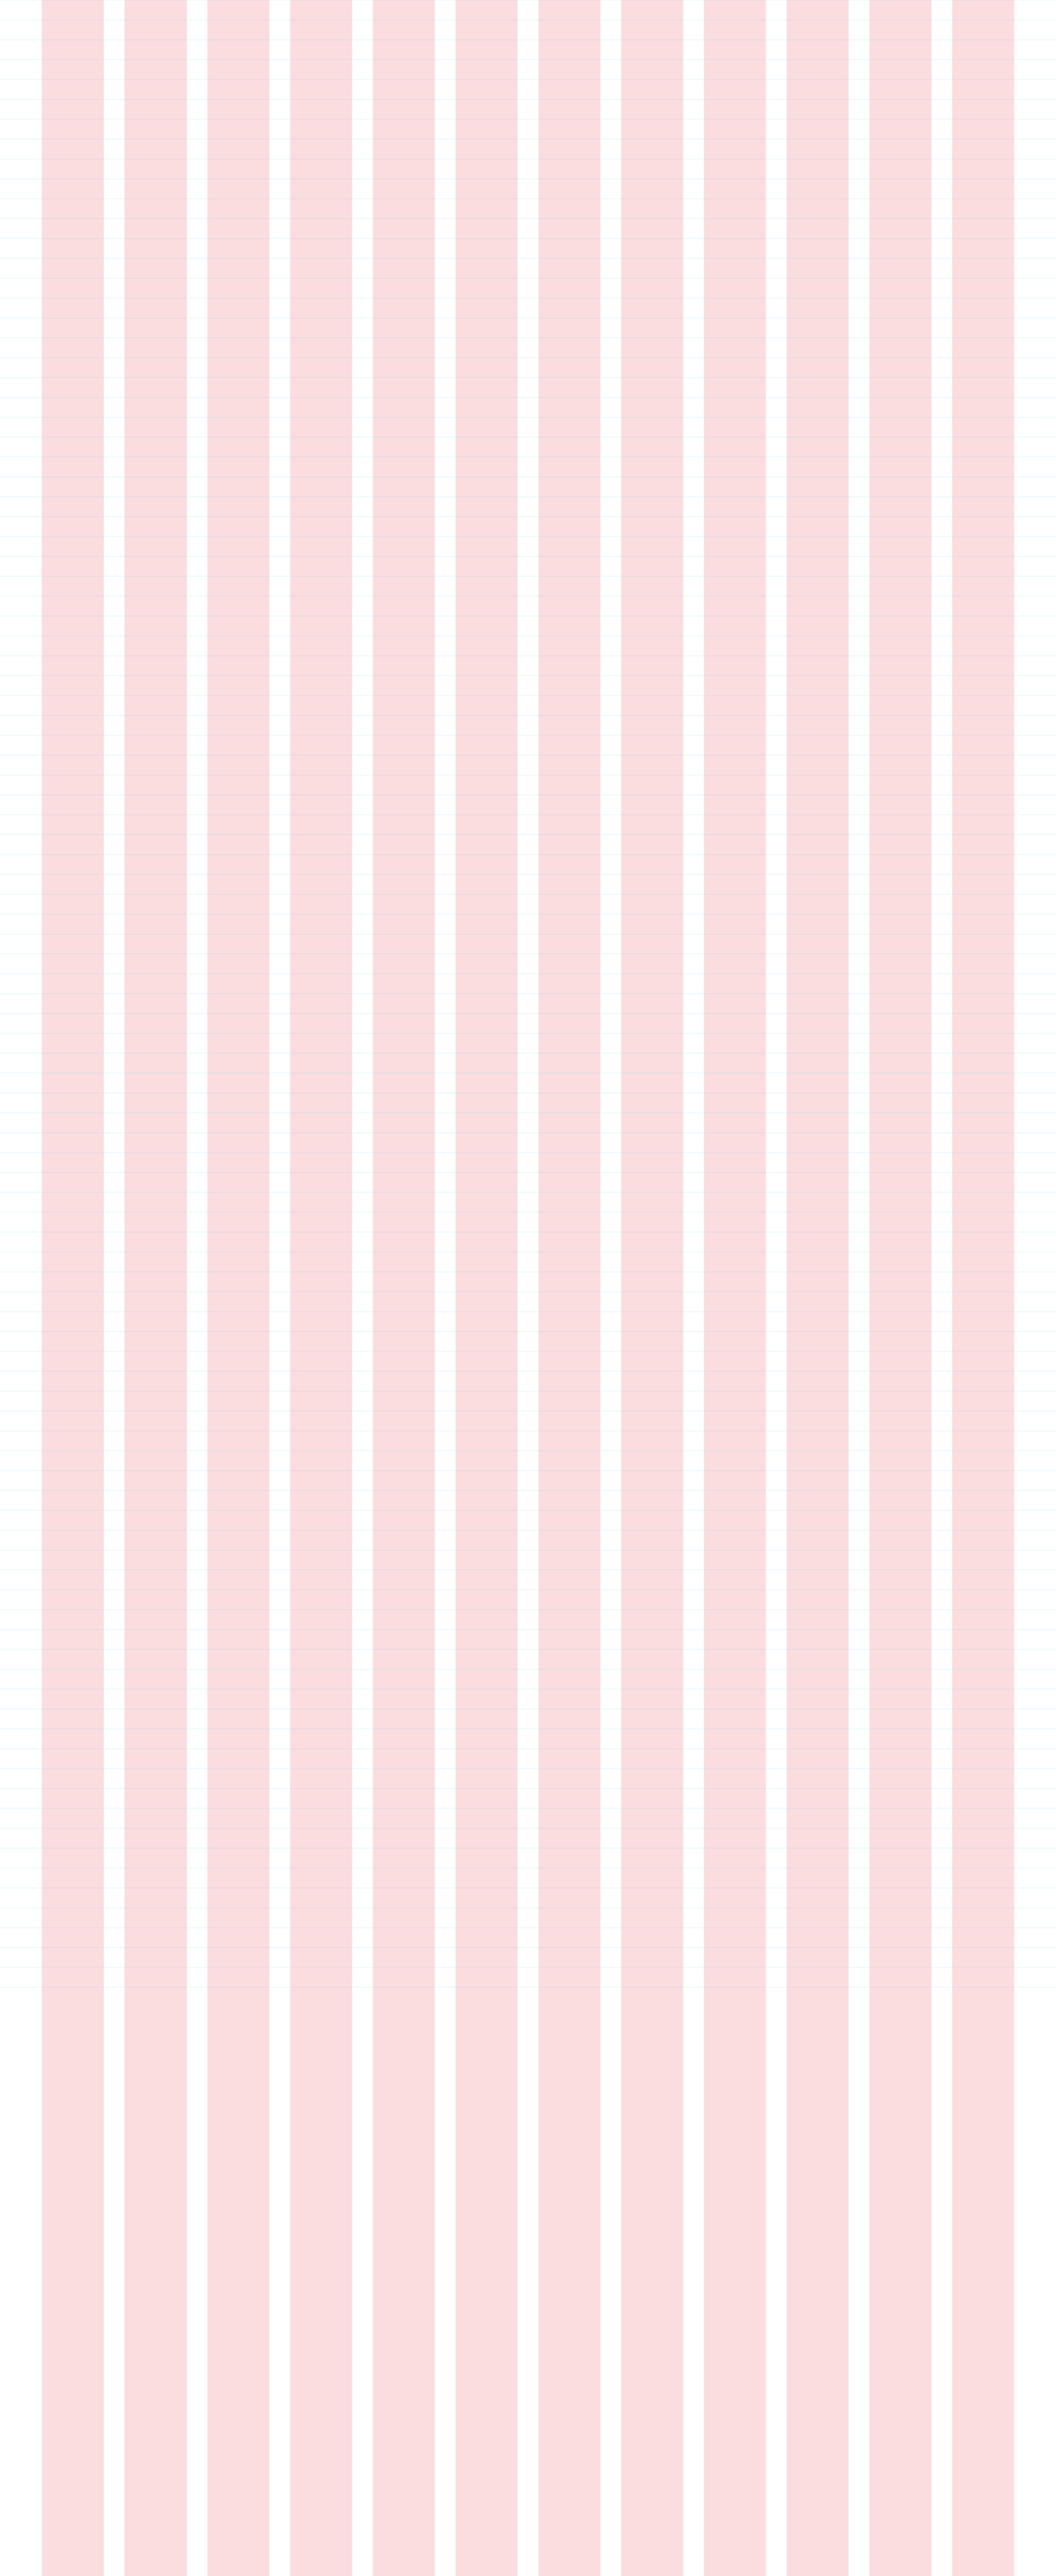
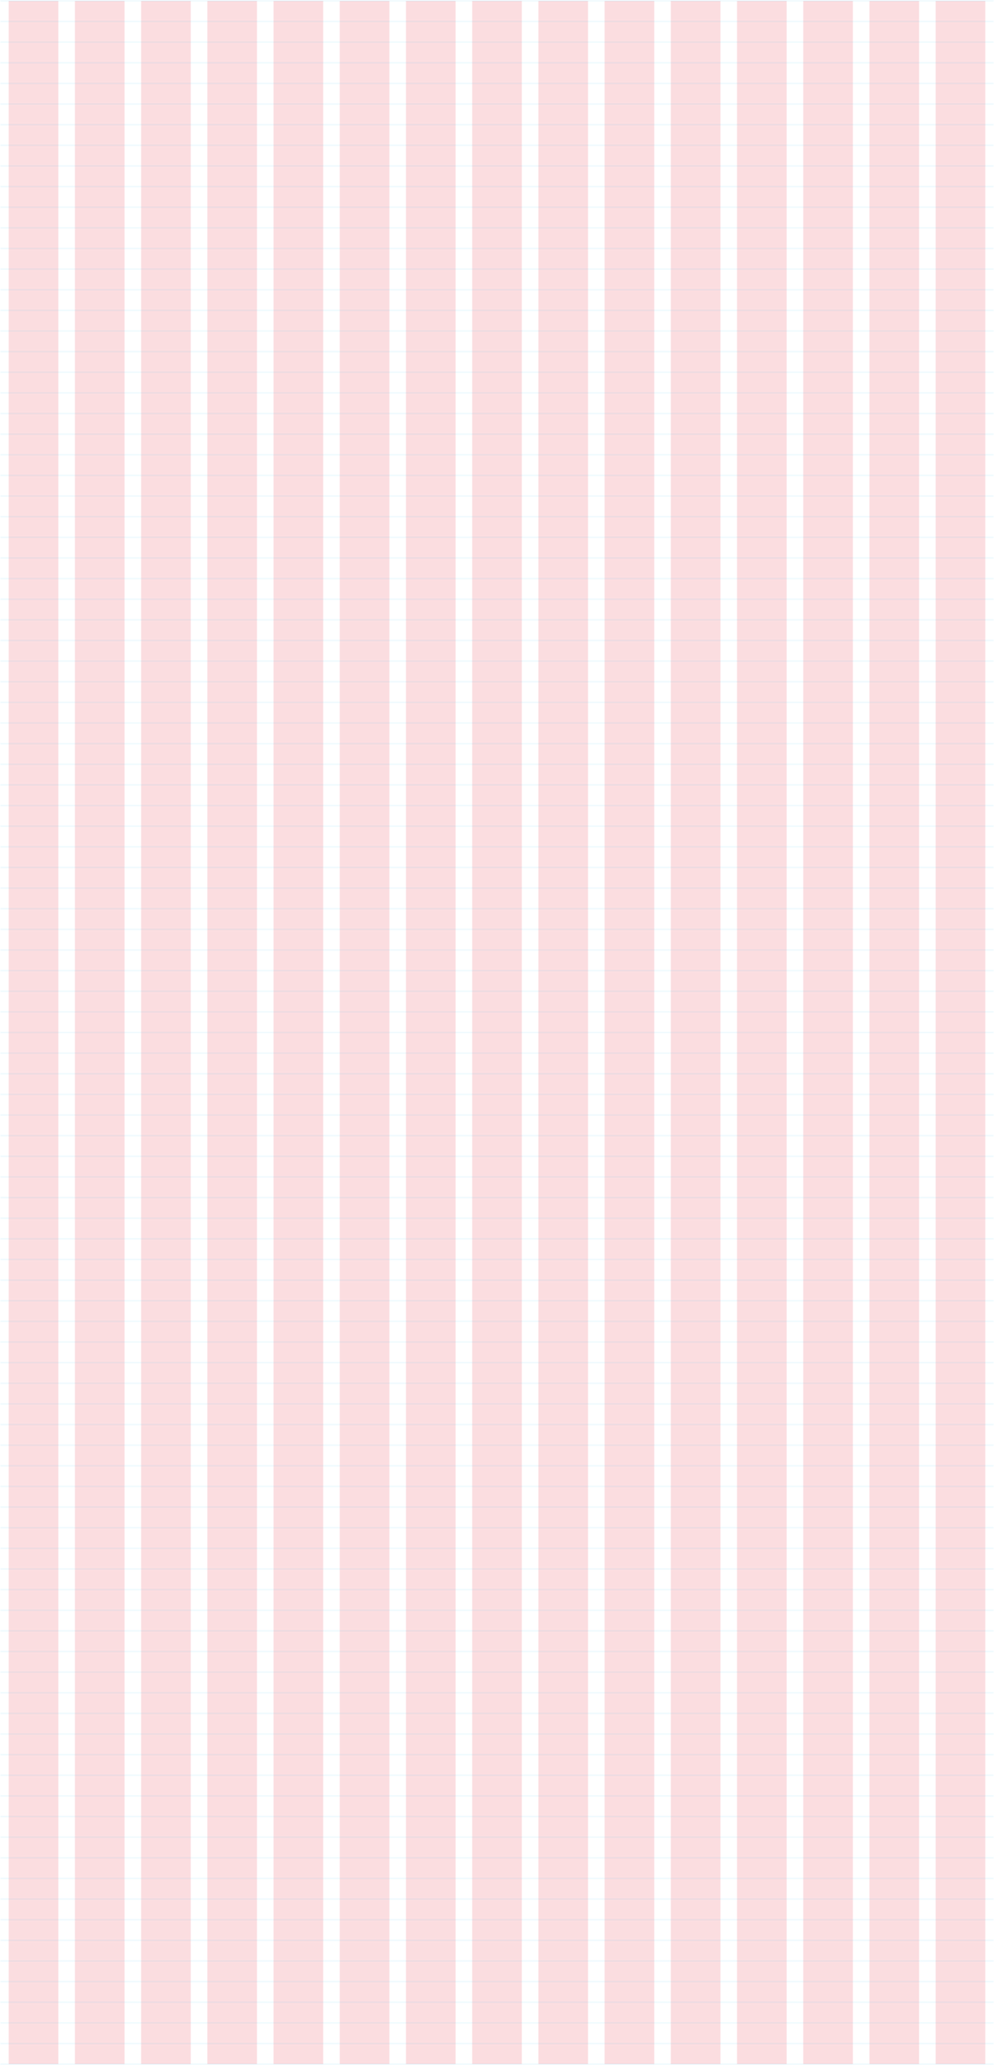
right modular-grid image added, grid sizing fixed

diff --git a/assignments/1/sass/_variables.scss b/assignments/1/sass/_variables.scss
@@ -47,8 +47,9 @@ $color-font-body: $color-light-gray;
 // Body sizing.
 // =================================================================================
 $width-body:  1600px;
-$width-content : (14 * ($grid-width + $grid-gutter) + $grid-width); // 1180
-
+$width-content : (15 * ($grid-width + $grid-gutter)  - $grid-gutter); // 1200
+$padding-body : 0 ($grid-gutter/2) 0 ($grid-gutter/2);
+$padding-content : 0 ($grid-gutter/2) 0 ($grid-gutter/2);
 
 // =================================================================================
 // Font

diff --git a/assignments/1/sass/style.scss b/assignments/1/sass/style.scss
@@ -25,6 +25,7 @@ h1 {
 }
 .content{
    max-width : $width-content;
+   
    margin: 0 auto;
 }
 
